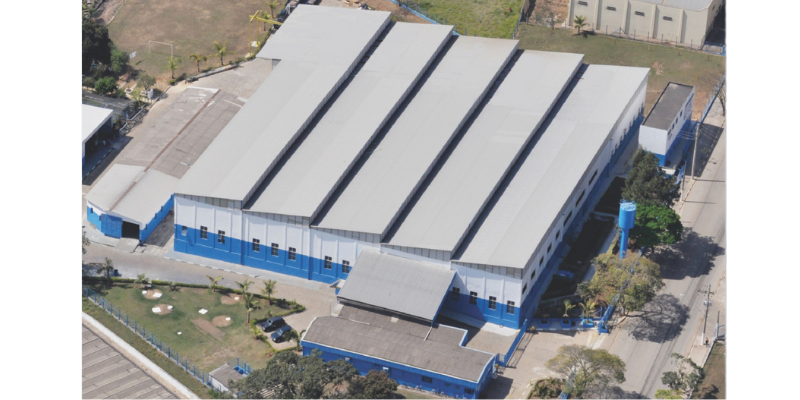
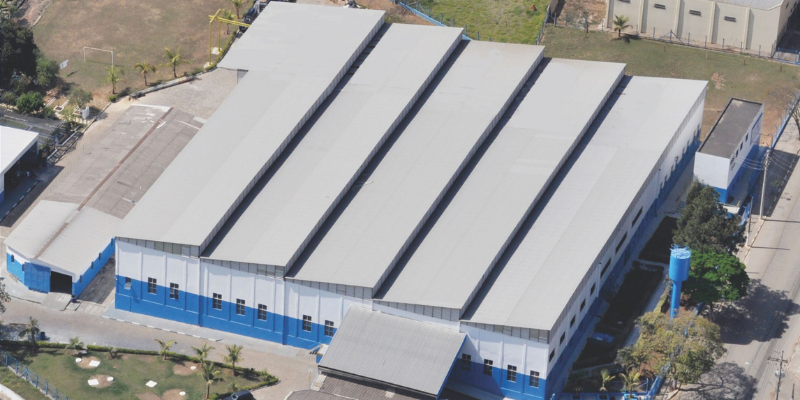
Ajuste no Institucional.html

diff --git a/pages/Institucional.html b/pages/Institucional.html
@@ -79,7 +79,7 @@
         <div class="container">
             <div class="content--text">
                 <div class="text">
-                    <h1 class="title-text ">Forusi</h1>
+                    <h1 class="title-text">Forusi</h1>
                     <p>
                         Transcendemos os limites da produção para criar um ambiente onde <strong>a excelência se
                             entrelaça com tradição</strong>.
@@ -118,10 +118,19 @@
                     </p>
                 </div>
             </div>
-            <div class="fabricas">
-                <img src="/assets/imagens/fabricas/ipero.png" alt="">
-                <img src="/assets/imagens/fabricas/itaquera.png" alt="">
-                <img src="/assets/imagens/fabricas/mogi.png" alt="">
+            <div class="fabricas mb-4">
+                <div class="fabrica">
+                    <h1 class="title-text">Iperó-SP</h1>
+                    <img src="/assets/imagens/fabricas/ipero.png" alt="Iperó">
+                </div>
+                <div class="fabrica">
+                    <h1 class="title-text">Itaquera -SP</h1>
+                    <img src="/assets/imagens/fabricas/itaquera.png" alt="Itaquera">
+                </div>
+                <div class="fabrica">
+                    <h1 class="title-text">Mogi-Mirim - SP</h1>
+                    <img src="/assets/imagens/fabricas/mogi.png" alt="mogi-mirim">
+                </div>
             </div>
             <div class="text">
                 <h2>Aos nossos clientes,</h2>
@@ -166,8 +175,10 @@
                     <ul class="box">
                         <li class="link_name">Produtos</li>
                         <li><a href="/pages/Produtos.html?categoria=Metais Sanitários">Metais Sanitários</a></li>
-                        <li><a href="/pages/Produtos.html?categoria=Chuveiros e Torneiras Elétricas">Chuveiros e Torneiras Elétricas</a></li>
-                        <li><a href="/pages/Produtos.html?categoria=Pistolas para Pintura">Pistolas para Pintura</a></li>
+                        <li><a href="/pages/Produtos.html?categoria=Chuveiros e Torneiras Elétricas">Chuveiros e
+                                Torneiras Elétricas</a></li>
+                        <li><a href="/pages/Produtos.html?categoria=Pistolas para Pintura">Pistolas para Pintura</a>
+                        </li>
                         <li><a href="/pages/Produtos.html?categoria=Materiais Elétricos">Materiais Elétricos</a></li>
                         <li><a href="/pages/Produtos.html?categoria=Forros de PVC">Forros de PVC</a></li>
                         <li><a href="/pages/Produtos.html?categoria=Plugues e Conectores">Plugues e Conectores</a></li>

diff --git a/assets/css/styles.css b/assets/css/styles.css
@@ -189,10 +189,22 @@ a {
     object-fit: cover;
 }
 
+.text p{
+    text-align: justify;
+    line-height: 1.6;
+    margin-top: 1rem;
+}
+
+.text ul li {
+    text-align: justify;
+    line-height: 1.6;
+    margin-top: 1rem;
+}
+
 .text h2,
 .title-text {
-    color: #fff;
-    font-size: 2.2rem;
+    color: #212243;
+    font-size: 3rem;
     font-weight: bold;
     text-align: center;
 }
@@ -859,13 +871,13 @@ a {
         margin: auto;
     }
 
-    .fabricas img {
-        padding: 10px;
-    }
-
     .formulario--header{
         padding: 10px;
     }
+}
+
+.fabrica{
+    margin: 20px
 }
 
 .Sobre {
@@ -882,6 +894,9 @@ a {
     margin-left: 70px;
     color: #fff;
     font-weight: bold;
+    text-align: justify;
+    line-height: 1.6;
+    margin-top: 1rem;
 }
 
 .img-sobre {
